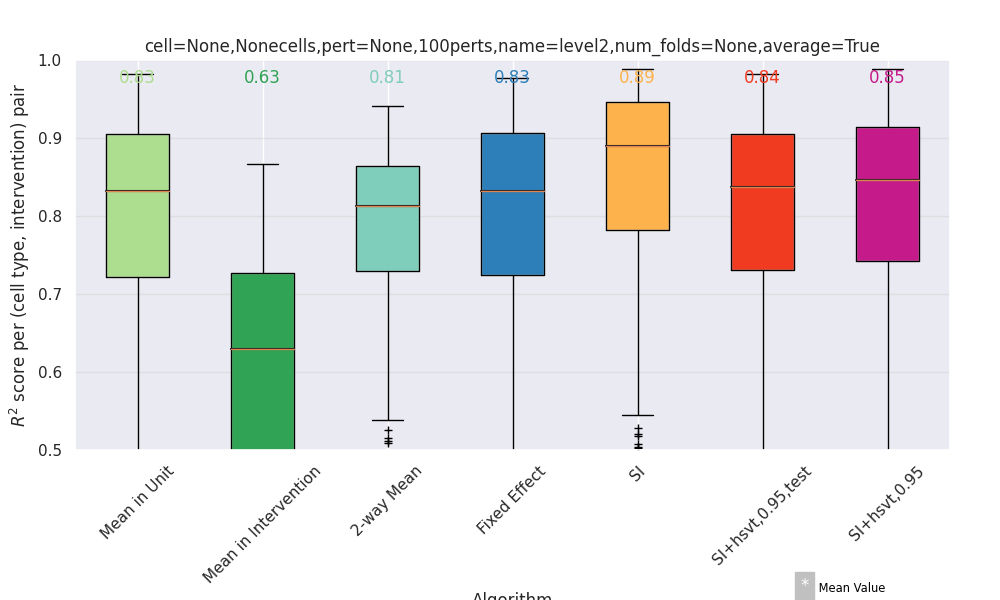
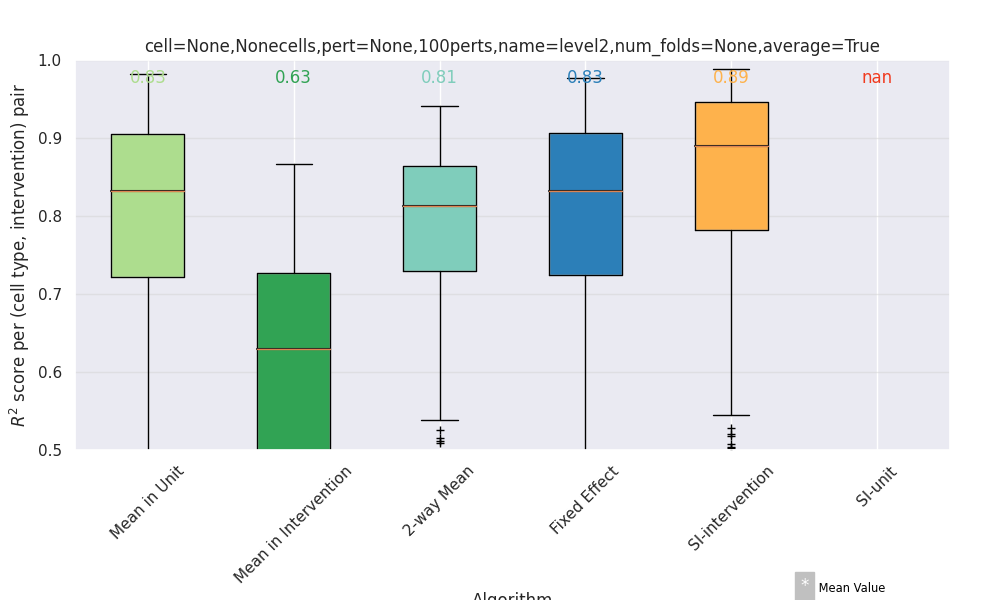
fix problem when no donor data

diff --git a/src/algorithms/synthetic_interventions.py b/src/algorithms/synthetic_interventions.py
@@ -6,45 +6,76 @@ from sklearn.linear_model import LinearRegression
 from tqdm import tqdm
 from functools import partial
 from src.algorithms import HSVTRegressor, RejectionError
+import ipdb
 
 
-def find_donors(sorted_ivs, units2available_ivs, target_unit, target_intervention, num_desired_interventions=None):
-    sorted_training_ivs = (iv for iv in sorted_ivs if iv in units2available_ivs[target_unit])
-    current_donors = [unit for unit, available_ivs in units2available_ivs.items() if target_intervention in available_ivs]
+class NoTrainingData(Exception):
+    pass
 
-    source_interventions = set()
+
+class NoDonorData(Exception):
+    pass
+
+
+def find_donors(
+        sorted_donors,
+        training2available_donors,
+        target_training_ix,
+        target_donor_ix,
+        num_desired_donors=None
+):
+    donors_available_for_target = [
+        donor for donor in sorted_donors
+        if donor in training2available_donors[target_training_ix]
+    ]
+    if len(donors_available_for_target) == 0:
+        raise NoDonorData
+
+    # start with training data which has the target_donor_ix available
+    current_training_ixs = [
+        t for t, available_donor_dims in training2available_donors.items()
+        if target_donor_ix in available_donor_dims
+    ]
+    if len(current_training_ixs) == 0:
+        raise NoTrainingData
+
+    donors = set()
     while True:
-        next_intervention = next(sorted_training_ivs, None)
-        if next_intervention is None:
+        if len(donors_available_for_target):
+            break
+        next_donor = donors_available_for_target.pop()
+
+        # stop adding donors if it would make the number of training dimensions zero
+        new_training_ixs = [
+            train_ix for train_ix in current_training_ixs
+            if next_donor in training2available_donors[train_ix]
+        ]
+        if len(new_training_ixs) == 0:
             break
 
-        # stop adding interventions if it would make the number of donor units zero
-        new_donors = [donor_unit for donor_unit in current_donors if next_intervention in units2available_ivs[donor_unit]]
-        if len(new_donors) == 0:
+        # stop adding donors if we've reached the desired number of donors, and adding another
+        # donor would decrease the number of training dimensions
+        reached_num_desired = len(donors) == num_desired_donors
+        if reached_num_desired and len(new_training_ixs) < len(current_training_ixs):
             break
 
-        # stop adding interventions if we've reached the desired number of interventions and adding another
-        # intervention would decrease the number of donor units
-        reached_num_desired = len(source_interventions) == num_desired_interventions
-        if reached_num_desired and len(new_donors) < len(current_donors):
-            break
+        # otherwise, it's fine to add another donor
+        current_training_ixs = new_training_ixs
+        donors.add(next_donor)
 
-        # otherwise, it's fine to add another intervention
-        current_donors = new_donors
-        source_interventions.add(next_intervention)
-
-    assert len(current_donors) > 0
-    assert len(source_interventions) > 0
-    return current_donors, source_interventions
+    assert len(current_training_ixs) > 0
+    assert len(donors) > 0
+    return current_training_ixs, donors
 
 
 def synthetic_intervention_inner(
         df,
         targets,
         regression_function,
-        default_predictor,
+        predictor_no_training,
+        default_prediction,
         donor_dim='intervention',
-        num_desired_interventions=None,
+        num_desired_donors=None,
         progress=False
 ):
     assert donor_dim == 'intervention' or donor_dim == 'unit'
@@ -53,29 +84,26 @@ def synthetic_intervention_inner(
     df = df.sort_index(level=[donor_dim, training_dim])
 
     training2available_donors = get_index_dict(df, training_dim)
-    c = Counter(df.index.get_level_values(donor_dim))
-    sorted_donors = [donor for donor, _ in c.most_common()]
+    counter = Counter(df.index.get_level_values(donor_dim))
+    sorted_donors = [donor for donor, _ in counter.most_common()]
 
     num_features = df.shape[1]
     predicted_data = np.zeros((len(targets), num_features))
     iterator = enumerate(targets) if not progress else enumerate(tqdm(targets))
     rejection_counter = 0
     for ix, (target_unit, target_intervention) in iterator:
-        target_donor_ix = target_intervention if donor_dim == 'intervention' else 'unit'
-        target_training_ix = target_unit if donor_dim == 'intervention' else 'unit'
+        target_donor_ix = target_intervention if donor_dim == 'intervention' else target_unit
+        target_training_ix = target_unit if donor_dim == 'intervention' else target_intervention
 
-        if target_donor_ix not in sorted_donors:
-            target_source_values = df[df.index.get_level_values(training_dim) == target_training_ix].values
-            prediction = default_predictor(target_source_values)
-            predicted_data[ix] = prediction
-        else:
+        # no target data on which to learn the regression model
+        try:
             # find donor units
             training_ixs, donor_ixs = find_donors(
                 sorted_donors,
                 training2available_donors,
                 target_training_ix,
                 target_donor_ix,
-                num_desired_interventions
+                num_desired_donors
             )
 
             # get donor source/target
@@ -105,29 +133,39 @@ def synthetic_intervention_inner(
             # target_source = target_source.sort_index()  # 12%
             target_source_values = target_source.values.T
 
-            try:
-                prediction = regression_function.predict(target_source_values)
-            except RejectionError:
-                all_target_source_values = df[df.index.get_level_values(training_dim) == target_training_ix].values
-                prediction = default_predictor(all_target_source_values)
-                rejection_counter += 1
-
+            prediction = regression_function.predict(target_source_values)
             predicted_data[ix] = prediction
+        except (NoTrainingData, RejectionError):
+            target_source_values = df[df.index.get_level_values(training_dim) == target_training_ix].values
+            prediction = predictor_no_training(target_source_values)
+            predicted_data[ix] = prediction
+        except NoDonorData:
+            predicted_data[ix] = default_prediction
 
     print(f"Rejected: {rejection_counter} out of {len(targets)}")
     predicted_df = pd.DataFrame(predicted_data, index=targets, columns=df.columns)
     return predicted_df
 
 
-def predict_synthetic_intervention_ols(df, targets, num_desired_interventions, progress=False, donor_dim='intervention'):
+def predict_synthetic_intervention_ols(
+        df,
+        targets,
+        num_desired_donors,
+        progress=False,
+        donor_dim='intervention'
+):
     regression_function = LinearRegression()
-    default_predictor = partial(np.mean, axis=0)
+
+    predictor_no_training = partial(np.mean, axis=0)
+    default_prediction = df.values.mean(axis=0)
+
     predicted_df = synthetic_intervention_inner(
         df,
         targets,
         regression_function,
-        default_predictor,
-        num_desired_interventions=num_desired_interventions,
+        predictor_no_training,
+        default_prediction,
+        num_desired_donors=num_desired_donors,
         donor_dim=donor_dim,
         progress=progress
     )
@@ -137,7 +175,7 @@ def predict_synthetic_intervention_ols(df, targets, num_desired_interventions, p
 def predict_synthetic_intervention_hsvt_ols(
         df,
         targets,
-        num_desired_interventions,
+        num_desired_donors,
         progress=False,
         center=True,
         energy=.99,
@@ -153,13 +191,17 @@ def predict_synthetic_intervention_hsvt_ols(
         hypo_test=hypo_test,
         hypo_test_percent=hypo_test_percent
     )
-    default_predictor = partial(np.mean, axis=0)
+
+    predictor_no_training = partial(np.mean, axis=0)
+    default_prediction = df.values.mean(axis=0)
+
     predicted_df = synthetic_intervention_inner(
         df,
         targets,
         regression_function,
-        default_predictor,
-        num_desired_interventions=num_desired_interventions,
+        predictor_no_training,
+        default_prediction,
+        num_desired_donors=num_desired_donors,
         donor_dim=donor_dim,
         progress=progress
     )

diff --git a/evaluation/helpers/evaluation_manager.py b/evaluation/helpers/evaluation_manager.py
@@ -1,4 +1,4 @@
-from evaluation.helpers.prediction_manager2 import PredictionManager
+from evaluation.helpers.prediction_manager import PredictionManager
 import pandas as pd
 import ipdb
 import matplotlib.pyplot as plt
@@ -18,9 +18,8 @@ alg_names = {
     'alg=impute_intervention_mean': 'Mean in Intervention',
     'alg=impute_two_way_mean': '2-way Mean',
     'alg=predict_intervention_fixed_effect,control_intervention=DMSO': 'Fixed Effect',
-    'alg=predict_synthetic_control_unit_ols,num_desired_interventions=None': 'SI',
-    f'alg=predict_synthetic_control_unit_ols,num_desired_interventions=None,donor_dim=intervention': f'SI-intervention',
-    f'alg=predict_synthetic_control_unit_ols,num_desired_interventions=None,donor_dim=unit': f'SI-unit',
+    f'alg=predict_synthetic_intervention_ols,num_desired_interventions=None,donor_dim=intervention': f'SI-intervention',
+    f'alg=predict_synthetic_intervention_ols,num_desired_interventions=None,donor_dim=unit': f'SI-unit',
     # f'alg=predict_synthetic_control_unit_hsvt_ols,num_desired_interventions=None,energy={energy},hypo_test=True,hypo_test_percent=0.1': f'SI+hsvt,{energy},test',
     # f'alg=predict_synthetic_control_unit_hsvt_ols,num_desired_interventions=None,energy={energy},hypo_test=False': f'SI+hsvt,{energy}',
     # 'alg=predict_synthetic_control_unit_hsvt_ols,num_desired_interventions=None,energy=0.8': 'SI+hsvt,.8',
@@ -63,6 +62,9 @@ class EvaluationManager:
                 predicted_df_fold = predicted_df[predicted_df.index.get_level_values('fold') == fold_ix]
                 predicted_df_fold = predicted_df_fold.reset_index('fold', drop=True)
                 assert (test_df.index == predicted_df_fold.index).all()
+
+                if alg == 'alg=predict_synthetic_intervention_ols,num_desired_interventions=None,donor_dim=unit':
+                    ipdb.set_trace()
 
                 # compute the R2 score for each gene expression profile
                 r2s[ix:(ix+predicted_df_fold.shape[0])] = compute_r2_matrix(test_df.values, predicted_df_fold.values)

diff --git a/evaluation/vary_perturbation_block.py b/evaluation/vary_perturbation_block.py
@@ -19,7 +19,7 @@ algs = []
 def run(name, average, num_perts):
     for pert_start in [0]:
         pm = PredictionManager(
-            num_cells=None,
+            num_cells=2,
             num_perts=num_perts,
             name=name,
             num_folds=None,
@@ -29,8 +29,8 @@ def run(name, average, num_perts):
         pm.predict(impute_intervention_mean, overwrite=False)
         pm.predict(impute_two_way_mean)
         pm.predict(predict_intervention_fixed_effect, control_intervention='DMSO', overwrite=False)
-        pm.predict(predict_synthetic_intervention_ols, num_desired_interventions=None, progress=False, overwrite=False, donor_dim='intervention')
-        pm.predict(predict_synthetic_intervention_ols, num_desired_interventions=None, progress=False, overwrite=False, donor_dim='unit')
+        pm.predict(predict_synthetic_intervention_ols, num_desired_interventions=None, progress=False, overwrite=True, donor_dim='intervention')
+        # pm.predict(predict_synthetic_intervention_ols, num_desired_interventions=None, progress=False, overwrite=True, donor_dim='unit')
         # energy = .95
         # pm.predict(
         #     predict_synthetic_intervention_hsvt_ols,
@@ -60,6 +60,8 @@ def run(name, average, num_perts):
         em.boxplot()
         em.boxplot_per_intervention()
 
+        return r
+
 
 if __name__ == '__main__':
     # lp.add_function(predict_synthetic_control_unit_ols)
@@ -69,7 +71,7 @@ if __name__ == '__main__':
     # run('level2_filtered_common')
     import itertools as itr
 
-    run('level2', average=True, num_perts=100)
+    r2 = run('level2', average=True, num_perts=5)
 
     # for average, num_perts in itr.product([True, False], [100]):
     #     run('level2', average=average, num_perts=num_perts)

diff --git a/evaluation/helpers/prediction_manager.py b/evaluation/helpers/prediction_manager.py
@@ -109,6 +109,7 @@ class PredictionManager:
                 df['fold'] = [fold_ix]*df.shape[0]
                 df.set_index('fold', append=True, inplace=True)
 
+                assert df.shape == (len(test_ixs), training_df.shape[1])
                 return df
 
             things = list(zip(range(self.num_folds), self.fold_train_ixs, self.fold_test_ixs))
@@ -118,18 +119,6 @@ class PredictionManager:
                     prediction_dfs = p_map(run, things)
             else:
                 prediction_dfs = list(tqdm((run(thing) for thing in things), total=len(things)))
-
-            # # predict for each fold
-            # predictions = []
-            # for train_ixs, test_ixs, filename in tqdm(things, total=self.num_folds):
-            #     training_df = self.gene_expression_df.iloc[train_ixs]
-            #     targets = self.gene_expression_df.iloc[test_ixs].index
-            #     df = alg(training_df, targets, **kwargs)
-            #     df = df.loc[targets]
-            #
-            #     # save the results
-            #     predictions.append(df)
-            #     df.to_pickle(filename)
 
             prediction_df = pd.concat(prediction_dfs, axis=0)
             prediction_df.to_pickle(alg_results_filename)

diff --git a/evaluation/helpers/__init__.py b/evaluation/helpers/__init__.py
@@ -1,3 +1,3 @@
 from .evaluation_manager import EvaluationManager
-from .prediction_manager2 import PredictionManager
+from .prediction_manager import PredictionManager
 from .get_data_block import get_data_block
